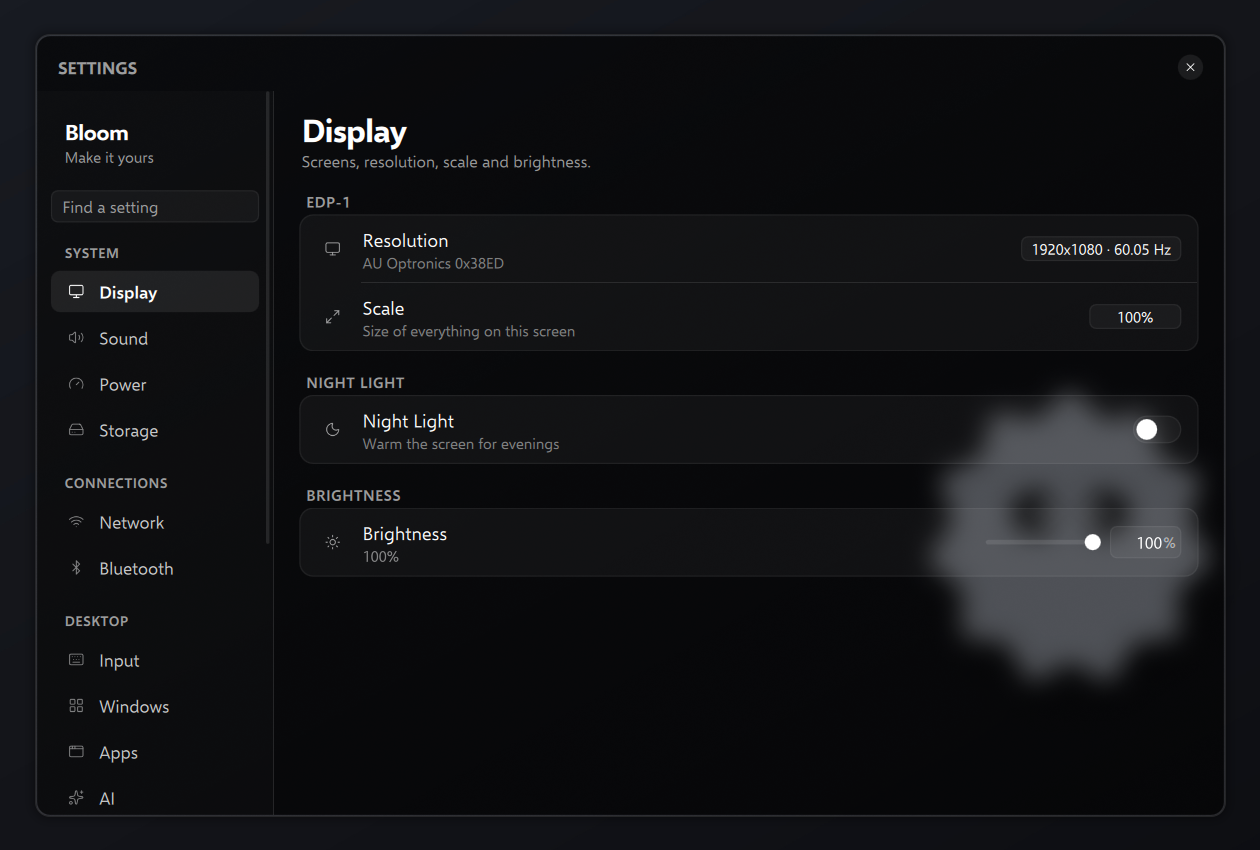
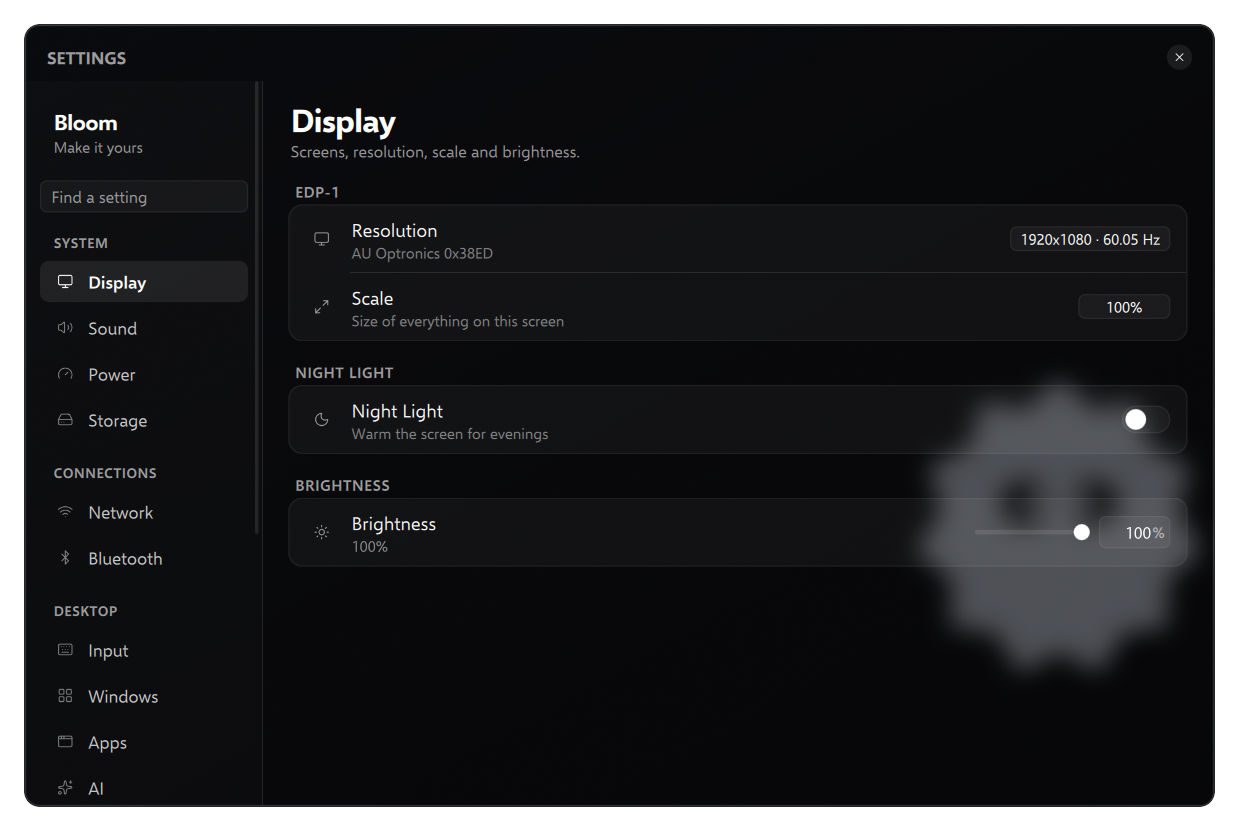
docs(readme): align the screenshots and stop cutting off the UI
Floating surfaces are cut out at their own rounded edges on a transparent
background, with equal padding; notch panels are identical excerpts of
the top of the screen; images in a row share one size and width.

diff --git a/README.md b/README.md
@@ -51,10 +51,8 @@ let the island settle back into your desktop.
 
 <p align="center">
   <img src="docs/screenshots/calendar.png" width="49%" alt="The calendar panel with a focus timer" />
-  <img src="docs/screenshots/command-center.png" width="40%" alt="Command Center with Wi-Fi, Bluetooth, volume and brightness" />
-</p>
-<p align="center">
-  <img src="docs/screenshots/devices.png" width="40%" alt="Connected devices with battery levels" />
+  <img src="docs/screenshots/command-center.png" width="49%" alt="Command Center with Wi-Fi, Bluetooth, volume and brightness" />
+  <img src="docs/screenshots/devices.png" width="49%" alt="Connected devices with battery levels" />
 </p>
 
 ---
@@ -94,18 +92,18 @@ wallpaper selection, an on-screen keyboard and a widget overlay.
 with the Bloom logo in every new window.
 
 <p align="center">
-  <img src="docs/screenshots/terminal.png" alt="kitty with Bloom's fastfetch and prompt" />
+  <img src="docs/screenshots/terminal.png" width="100%" alt="kitty with Bloom's fastfetch and prompt" />
 </p>
 
 <p align="center">
-  <img src="docs/screenshots/launcher.png" width="45%" alt="The launcher" />
-  <img src="docs/screenshots/session.png" width="45%" alt="The session menu" />
+  <img src="docs/screenshots/launcher.png" width="49%" alt="The launcher" />
+  <img src="docs/screenshots/session.png" width="49%" alt="The session menu" />
 </p>
 <p align="center">
-  <img src="docs/screenshots/settings.png" alt="Bloom Settings on the Display page" />
+  <img src="docs/screenshots/settings.png" width="100%" alt="Bloom Settings on the Display page" />
 </p>
 <p align="center">
-  <img src="docs/screenshots/cheatsheet.png" alt="The keybinding cheatsheet" />
+  <img src="docs/screenshots/cheatsheet.png" width="100%" alt="The keybinding cheatsheet" />
 </p>
 
 ---
